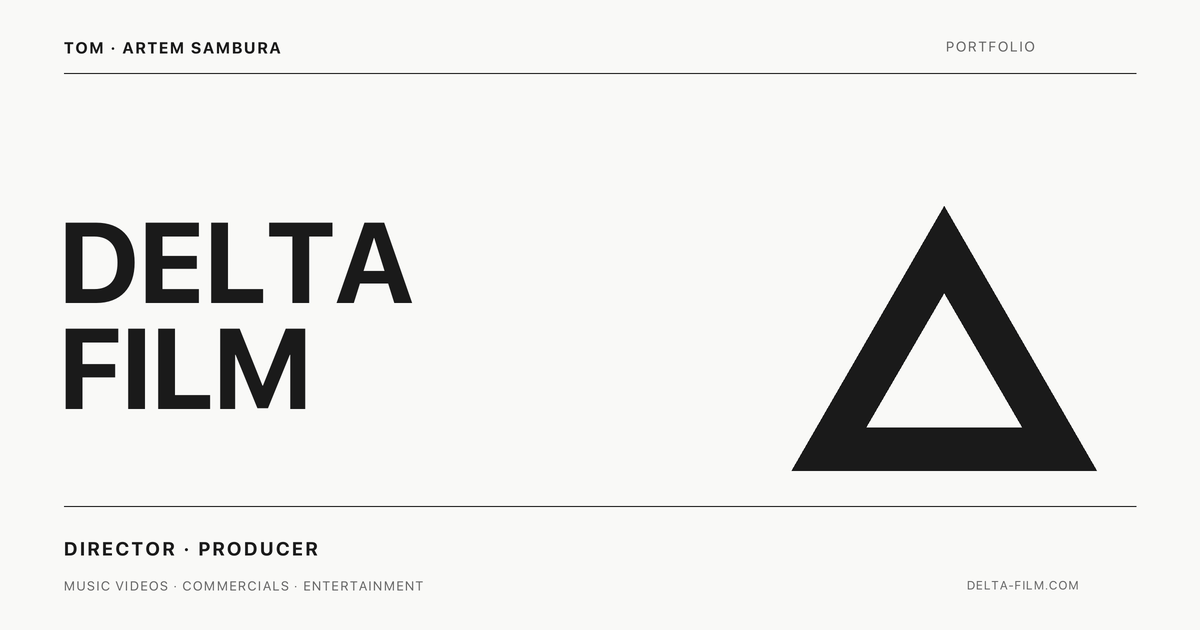
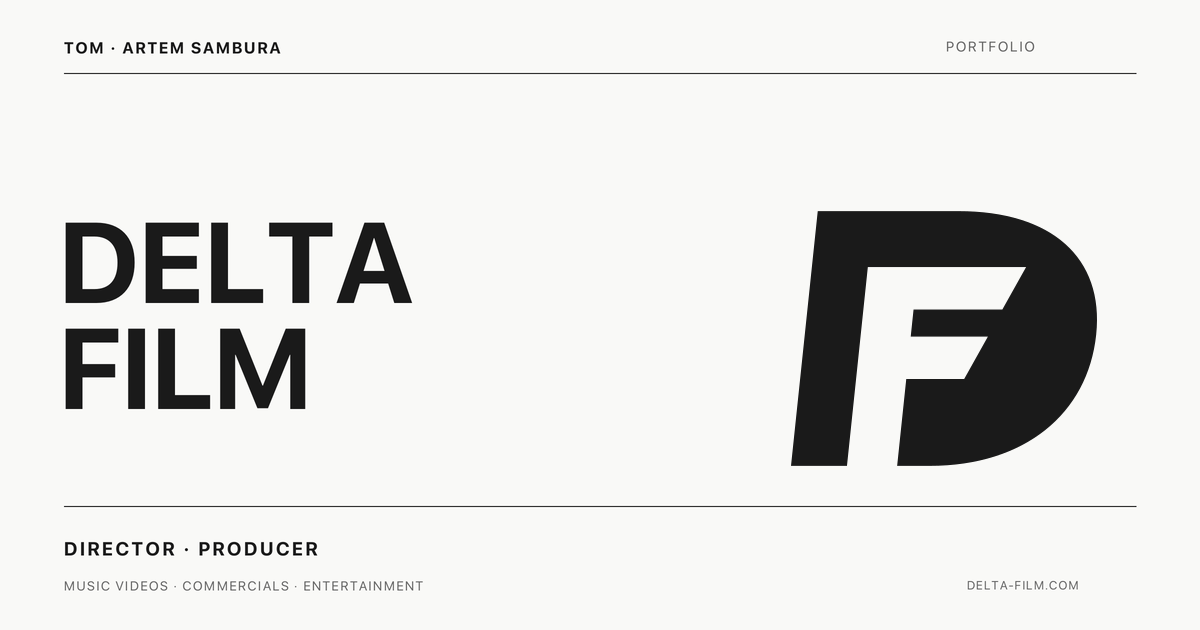
Apply the approved DELTA FILM monogram across the portfolio

Changed region(s): [[0.6475, 0.3317, 0.925, 0.754]]

diff --git a/index.html b/index.html
@@ -10,26 +10,26 @@
     <meta name="theme-color" content="#F9F9F7" />
     <link rel="canonical" href="https://delta-film.com/" />
     <link rel="preload" href="/src/assets/fonts/manrope-variable.ttf" as="font" type="font/ttf" crossorigin />
-    <link rel="icon" href="/favicon.ico" sizes="16x16 32x32 48x48" />
-    <link rel="icon" href="/favicon-96.png" type="image/png" sizes="96x96" />
-    <link rel="icon" href="/favicon.svg" type="image/svg+xml" sizes="any" />
-    <link rel="apple-touch-icon" href="/apple-touch-icon.png" sizes="180x180" />
+    <link rel="icon" href="/favicon.ico?v=monogram" sizes="16x16 32x32 48x48" />
+    <link rel="icon" href="/favicon-96.png?v=monogram" type="image/png" sizes="96x96" />
+    <link rel="icon" href="/favicon.svg?v=monogram" type="image/svg+xml" sizes="any" />
+    <link rel="apple-touch-icon" href="/apple-touch-icon.png?v=monogram" sizes="180x180" />
     <meta property="og:type" content="website" />
     <meta property="og:site_name" content="DELTA FILM" />
     <meta property="og:locale" content="en_US" />
     <meta property="og:url" content="https://delta-film.com/" />
     <meta property="og:title" content="Artem Sambura (Tommy) — Director &amp; Producer | DELTA FILM" />
     <meta property="og:description" content="Music videos, commercials and entertainment. Explore the selected work of film director and creative producer Artem Sambura (Tommy)." />
-    <meta property="og:image" content="https://delta-film.com/sharing/social-card.png" />
+    <meta property="og:image" content="https://delta-film.com/sharing/social-card.png?v=monogram" />
     <meta property="og:image:type" content="image/png" />
     <meta property="og:image:width" content="1200" />
     <meta property="og:image:height" content="630" />
-    <meta property="og:image:alt" content="DELTA FILM — Tommy / Artem Sambura, Director and Producer, with the Delta triangle mark." />
+    <meta property="og:image:alt" content="DELTA FILM — Tommy / Artem Sambura, Director and Producer, with the DF monogram." />
     <meta name="twitter:card" content="summary_large_image" />
     <meta name="twitter:title" content="Artem Sambura (Tommy) — Director &amp; Producer | DELTA FILM" />
     <meta name="twitter:description" content="Music videos, commercials and entertainment. Explore the selected work of film director and creative producer Artem Sambura (Tommy)." />
-    <meta name="twitter:image" content="https://delta-film.com/sharing/social-card.png" />
-    <meta name="twitter:image:alt" content="DELTA FILM — Tommy / Artem Sambura, Director and Producer, with the Delta triangle mark." />
+    <meta name="twitter:image" content="https://delta-film.com/sharing/social-card.png?v=monogram" />
+    <meta name="twitter:image:alt" content="DELTA FILM — Tommy / Artem Sambura, Director and Producer, with the DF monogram." />
     <script type="application/ld+json">
       {
         "@context": "https://schema.org",
@@ -64,7 +64,7 @@
             "@id": "https://delta-film.com/#organization",
             "name": "DELTA FILM",
             "url": "https://delta-film.com/",
-            "logo": "https://delta-film.com/apple-touch-icon.png",
+            "logo": "https://delta-film.com/apple-touch-icon.png?v=monogram",
             "email": "hello@delta-film.com",
             "sameAs": ["https://instagram.com/film.delta"]
           }

diff --git a/src/components/Header.tsx b/src/components/Header.tsx
@@ -8,10 +8,13 @@ interface HeaderProps {
 export const Header: React.FC<HeaderProps> = ({ onScrollToWork, onScrollToContact }) => {
   return (
     <header className="w-full bg-[#F9F9F7] border-b border-[#1A1A1A] sticky top-0 z-40">
-      <div className="max-w-[1720px] mx-auto px-4 sm:px-8 py-4 sm:py-5 flex items-center justify-between text-[11px] sm:text-[12px] uppercase tracking-widest leading-none text-[#1A1A1A]">
+      <div className="max-w-[1720px] mx-auto px-3 min-[380px]:px-4 sm:px-8 py-2 sm:py-3 flex items-center justify-between gap-3 text-[11px] sm:text-[12px] uppercase tracking-widest leading-none text-[#1A1A1A]">
         {/* Left Branding */}
-        <div className="flex items-center gap-3">
-          <span className="font-bold tracking-widest text-[#1A1A1A]">
+        <div className="flex min-w-0 items-center gap-2 sm:gap-3">
+          <a href="/" aria-label="DELTA FILM home" className="shrink-0">
+            <img src="/favicon.svg?v=monogram" alt="" width="48" height="48" className="h-11 w-11 sm:h-12 sm:w-12" />
+          </a>
+          <span className="font-bold tracking-widest leading-tight text-[#1A1A1A]">
             TOMMY / ARTEM SAMBURA
           </span>
           <span className="text-[#888888] hidden sm:inline">·</span>
@@ -21,7 +24,7 @@ export const Header: React.FC<HeaderProps> = ({ onScrollToWork, onScrollToContac
         </div>
 
         {/* Right Studio Title & Navigation */}
-        <div className="flex items-center space-x-6 text-[10px] sm:text-[11px] tracking-widest">
+        <div className="flex shrink-0 items-center gap-3 sm:gap-6 whitespace-nowrap text-[10px] sm:text-[11px] tracking-wider min-[380px]:tracking-widest">
           <a
             href="#selected-work"
             onClick={onScrollToWork}

diff --git a/src/components/Contact.tsx b/src/components/Contact.tsx
@@ -109,7 +109,8 @@ export const Contact: React.FC = () => {
                 Request a launch email
               </a>
             </div>
-            <h3 className="text-[28px] sm:text-[34px] font-bold uppercase tracking-[0.2em] text-[#1A1A1A] leading-none">
+            <h3 className="flex flex-wrap items-center gap-3 text-[28px] sm:text-[34px] font-bold uppercase tracking-[0.2em] text-[#1A1A1A] leading-none">
+              <img src="/favicon.svg?v=monogram" alt="" width="56" height="56" className="h-12 w-12 sm:h-14 sm:w-14" />
               DELTA FILM
             </h3>
           </div>
